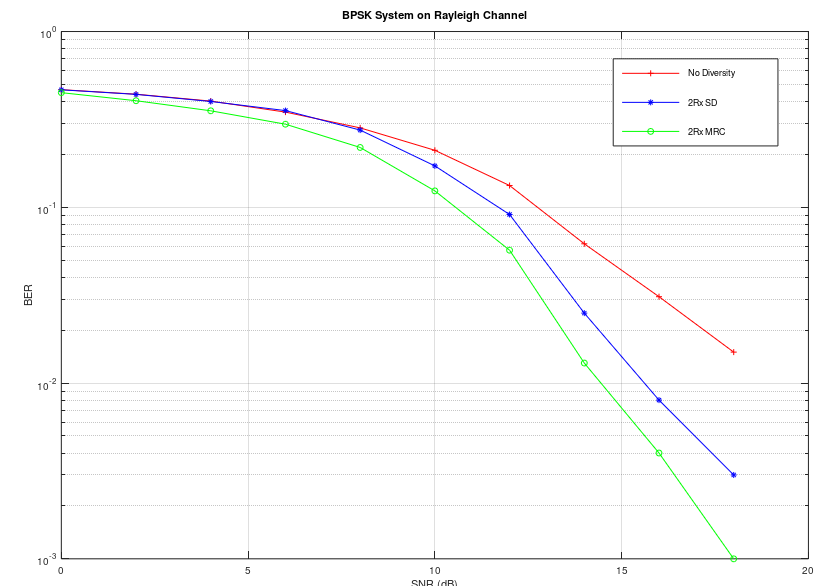
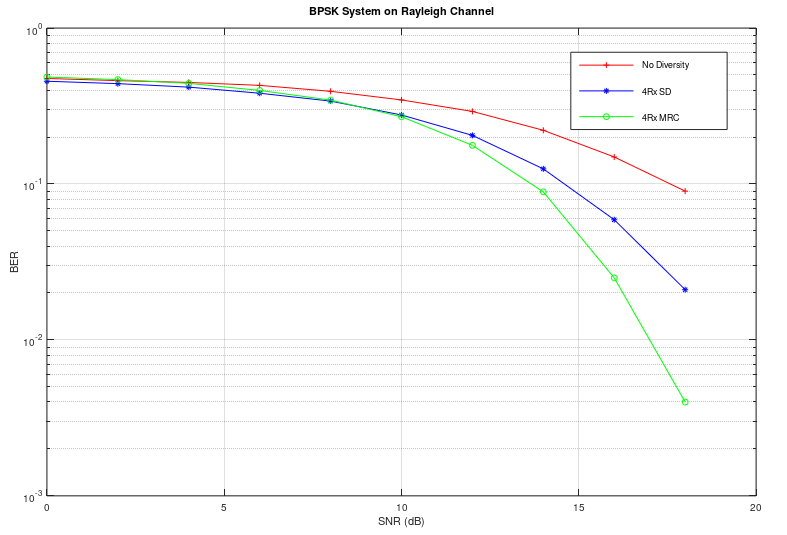
used transpose() instead of apostrophe to avoid unexpected Hermitian function and tweaked test parameters for 4 RX setup

diff --git a/receive-diversity/rx_div_sd.m b/receive-diversity/rx_div_sd.m
@@ -2,12 +2,11 @@
 % Selection Diversity
 %
 % Upon receiving symbols from different antenna, select 1 with the highest SNR.
-% (1) For each MxN received signal y, select 1 symbol per antenna with the
-%   highest SNR.
-% (2) Find the index of those chosen symbols from y to use on H and generate the
-%   a new channel vector as a subset of the H matrix.
-% (3) Use the chosen antenna per symbol and the new channel vector to obtain the
-%   received signal (removing the channel attenuation and phase shifts)
+% (1) For each M received signal y, select 1 symbol among M antenna with the
+%   highest SNR (or the largest h)
+% (2) Find the index of those chosen symbols from h to use on y and generate the
+%   chosen received signal vector from 1 antenna
+% (3) Equalize the chosen symbols by using the h vector from (1)
 %
 % Reference
 % http://www.dsplog.com/2008/09/06/receiver-diversity-selection-diversity/
@@ -24,13 +23,13 @@ function y_sd = rx_div_sd(y, H)
   y_sd = zeros(1, N);
 
 %   y_sd = inefficient_sd(y, H, N); % vectorize
-  y_sd = max(y); %1
+%  y_sd = max(y); %1
 
-  [row,col] = find(y_sd == y); %2
-  indices = sub2ind(size(H), row, col);
-  new_H = conj(H(indices)');
-
-  y_sd = y_sd ./ new_H; %3
+  h = max(H);
+  [row,col] = find(h == H);
+  indices = sub2ind(size(y), row, col);
+  y_sd = transpose(y(indices));
+  y_sd = y_sd ./ h;
 endfunction
 
 function ydiv = inefficient_sd(y, H, N)

diff --git a/receive-diversity/sim.m b/receive-diversity/sim.m
@@ -3,9 +3,9 @@ clc
 
 % Test Parameters
 N = 10^3            % number of symbols (> 0)
-M = 2               % number of receive antenna (> 0)
-P = 10^-3           % channel power (not in dB, 1 > P > 0)
-N0 = 1              % noise power (not in dB, 1 > N0 > 0)
+M = 4               % number of receive antenna (> 0)
+P = 10^-5           % channel power (not in dB, 1 > P > 0)
+N0 = 10^-1          % noise power (not in dB, 1 > N0 > 0)
 SNR_dB = 0:2:18     % signal to noise ratio in decibels
 num_tech = 3;       % no diversity, selective diversity, MRC
 
@@ -59,7 +59,7 @@ for tech_idx = 1:num_tech
 end
 hold off
 grid on
-legend('No Diversity','2Rx SD', '2Rx MRC')
+legend('No Diversity','4Rx SD', '4Rx MRC')
 xlabel('SNR (dB)')
 ylabel('BER')
 title('BPSK System on Rayleigh Channel')

diff --git a/receive-diversity/receiver.m b/receive-diversity/receiver.m
@@ -24,5 +24,5 @@ function y = receiver(H, x, n, P, N0)
   %    y(:,symb_idx) = H(:,symb_idx) * x(symb_idx) * P + n(:,symb_idx) * N0;
   %  end
 
-  y = (H .* x' * P) + (n * N0); % vectorized form
+  y = (H .* transpose(x) * P) + (n * N0); % vectorized form
 endfunction

diff --git a/receive-diversity/rayleigh_channel.m b/receive-diversity/rayleigh_channel.m
@@ -25,5 +25,5 @@ function H = rayleigh_channel(N, M, P)
   C = eye(M);
   a = randn(M, N) + 1i * randn(M, N);
   H = phi * C * sqrt(P) * a;
-  printf("H_size = %dx%d\n",size(H)(1), size(H)(2));
+  printf("size(H) = %dx%d\n",size(H)(1), size(H)(2));
 endfunction

diff --git a/receive-diversity/awgn.m b/receive-diversity/awgn.m
@@ -12,5 +12,5 @@
 
 function n = awgn(N, M, N0)
   n = sqrt(N0/2) * randn(M, N); % no imag component since no phase rotation
-  printf("n_size = %dx%d\n",size(n)(1), size(n)(2));
+  printf("size(n) = %dx%d\n",size(n)(1), size(n)(2));
 endfunction
